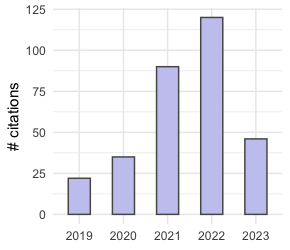
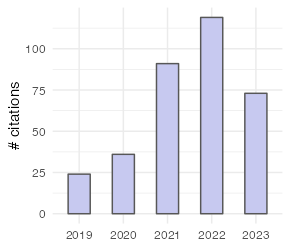
Update citations

diff --git a/publications.html b/publications.html
@@ -73,8 +73,8 @@
 </tr>
 <tr>
 <td>Citations</td>
-<td>327</td>
-<td>325</td>
+<td>357</td>
+<td>355</td>
 </tr>
 <tr>
 <td>h-index</td>
@@ -87,7 +87,7 @@
 <td>5</td>
 </tr>
 </table>
-<br><p><i>Last Compiled: </i><code>2023-05-12</code></p>
+<br><p><i>Last Compiled: </i><code>2023-07-27</code></p>
 
         <br><br><br><br><br>
     </div>
